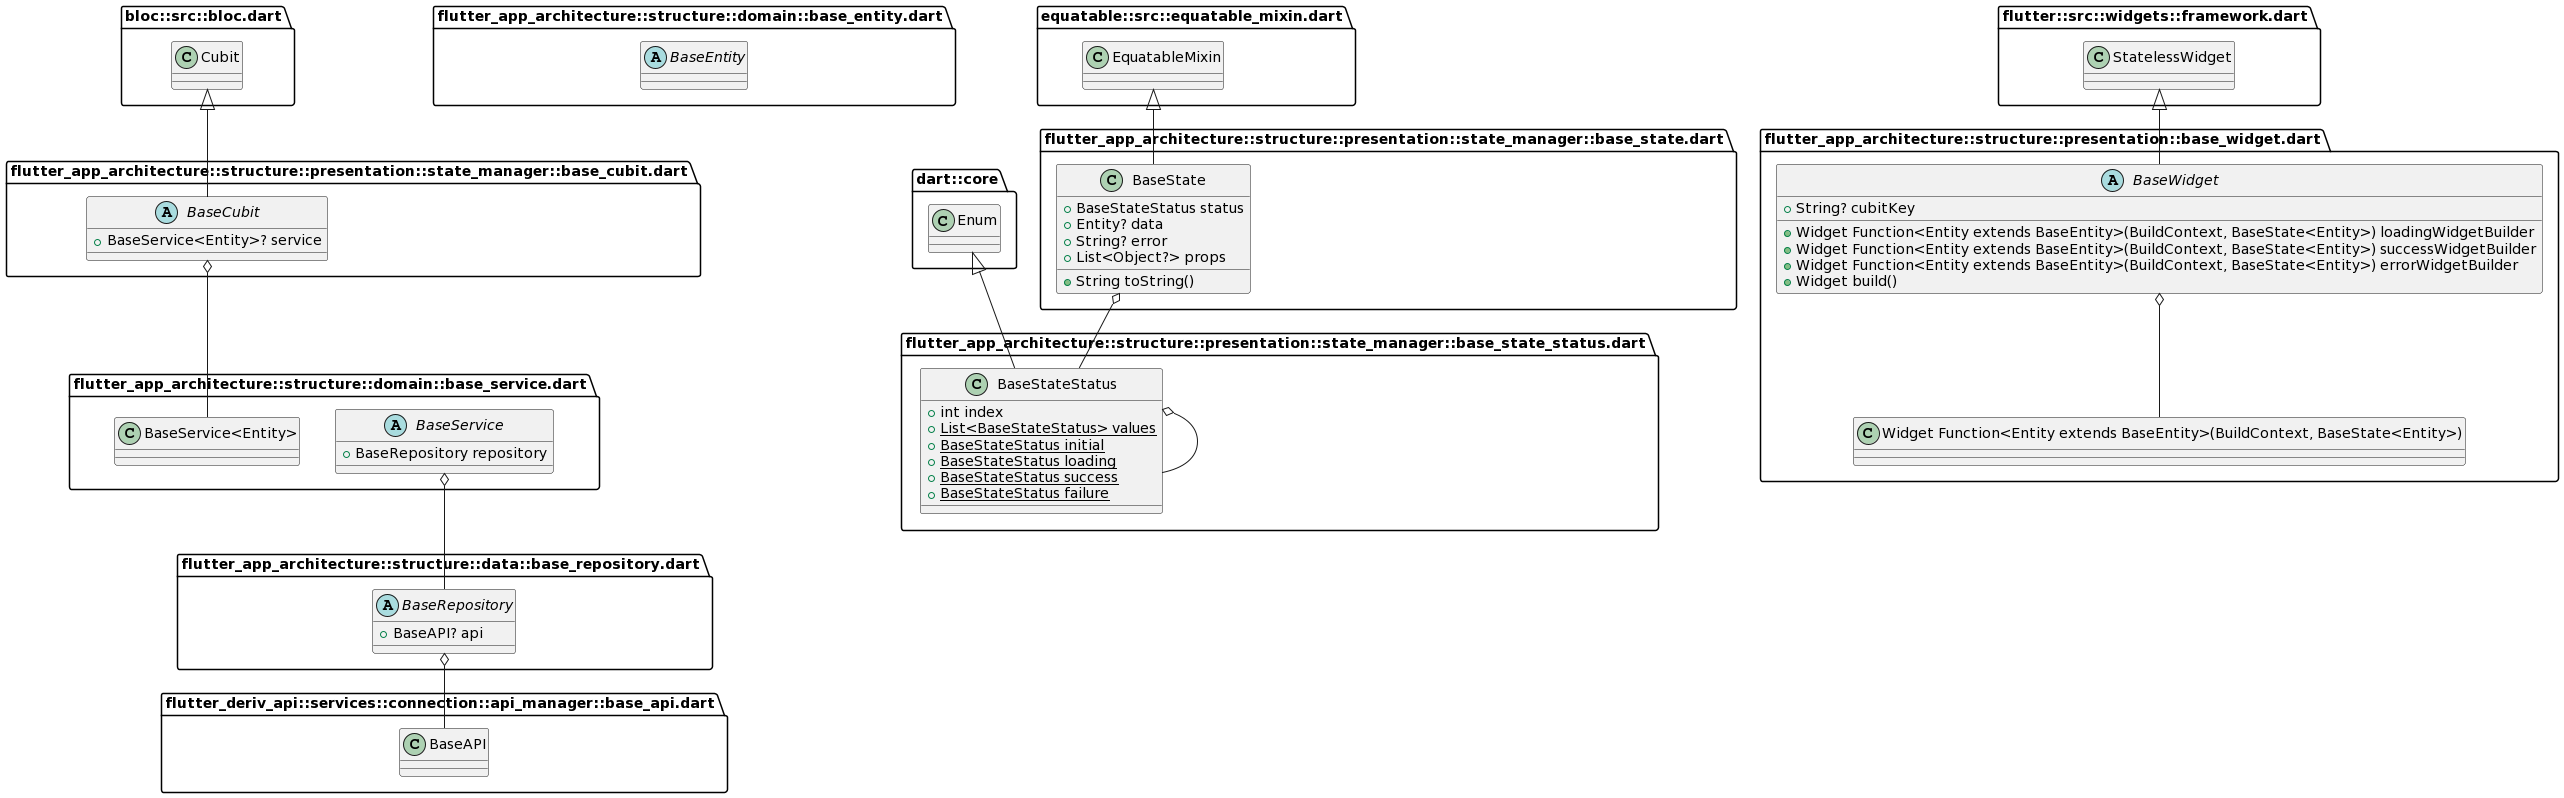
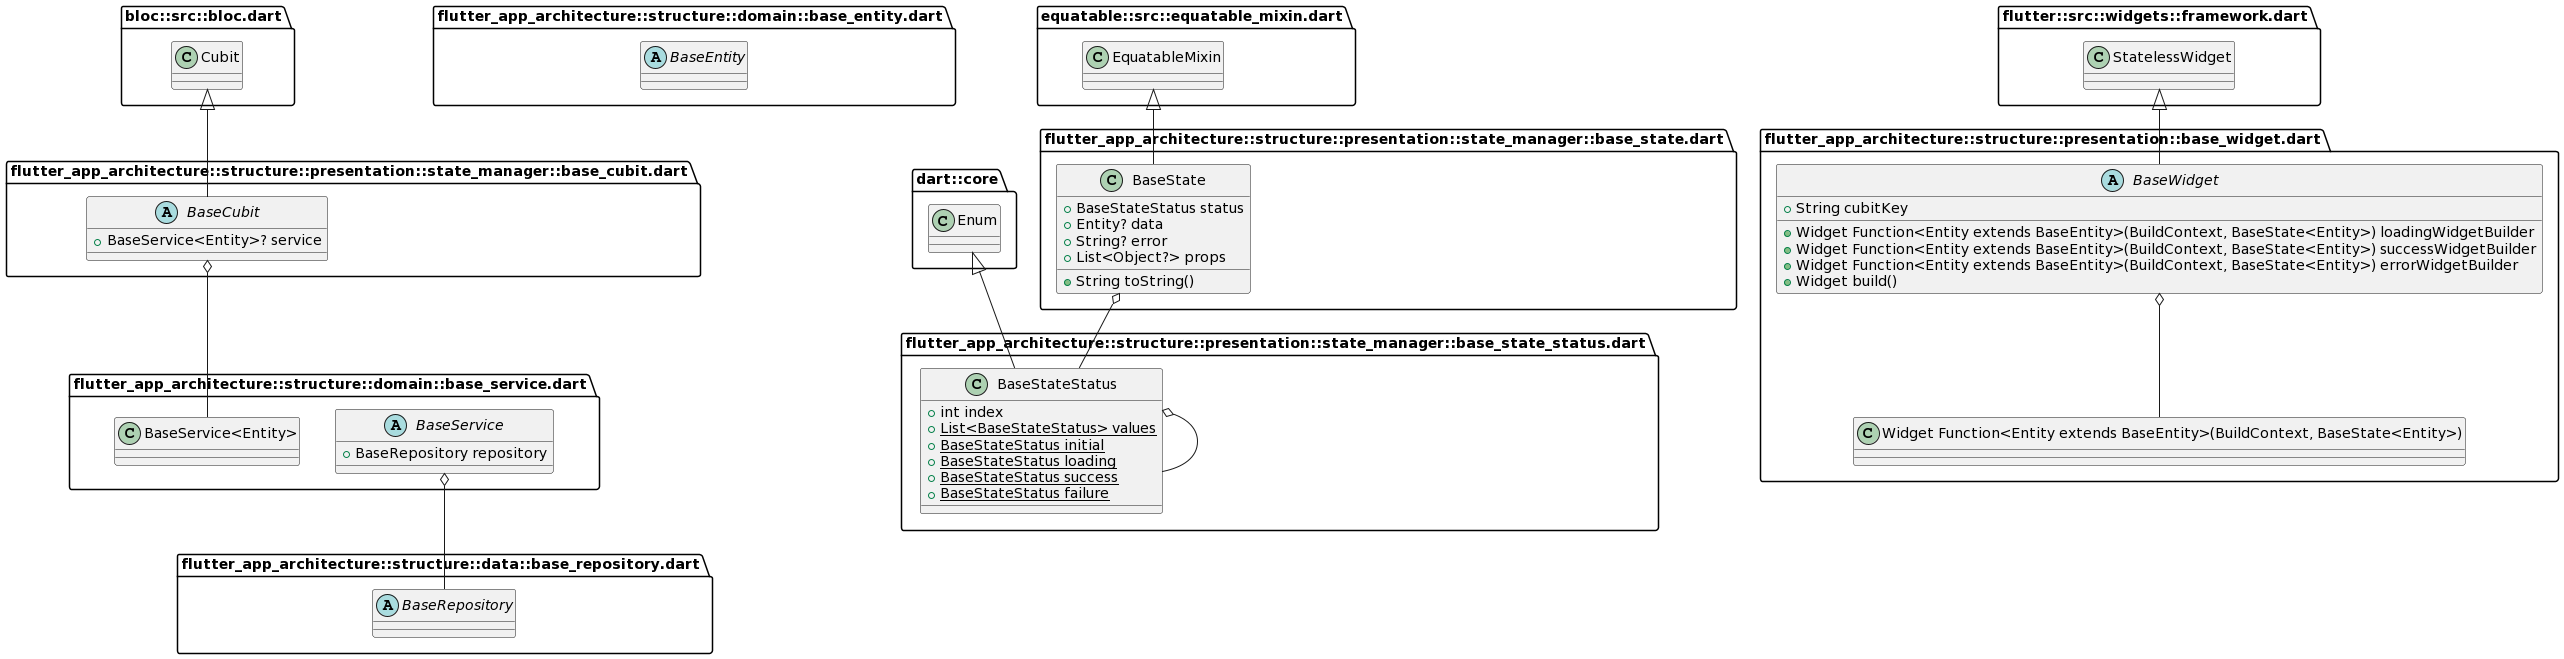
remove base api dependency

diff --git a/lib/structure/data/base_repository.dart b/lib/structure/data/base_repository.dart
@@ -1,7 +1,1 @@
-import 'package:flutter_deriv_api/services/connection/api_manager/base_api.dart';
-
-abstract class BaseRepository {
-  BaseRepository(this.api);
-
-  final BaseAPI? api;
-}
+abstract class BaseRepository {}

diff --git a/windows/flutter/generated_plugin_registrant.cc b/windows/flutter/generated_plugin_registrant.cc
@@ -6,9 +6,6 @@
 
 #include "generated_plugin_registrant.h"
 
-#include <connectivity_plus_windows/connectivity_plus_windows_plugin.h>
 
 void RegisterPlugins(flutter::PluginRegistry* registry) {
-  ConnectivityPlusWindowsPluginRegisterWithRegistrar(
-      registry->GetRegistrarForPlugin("ConnectivityPlusWindowsPlugin"));
 }
